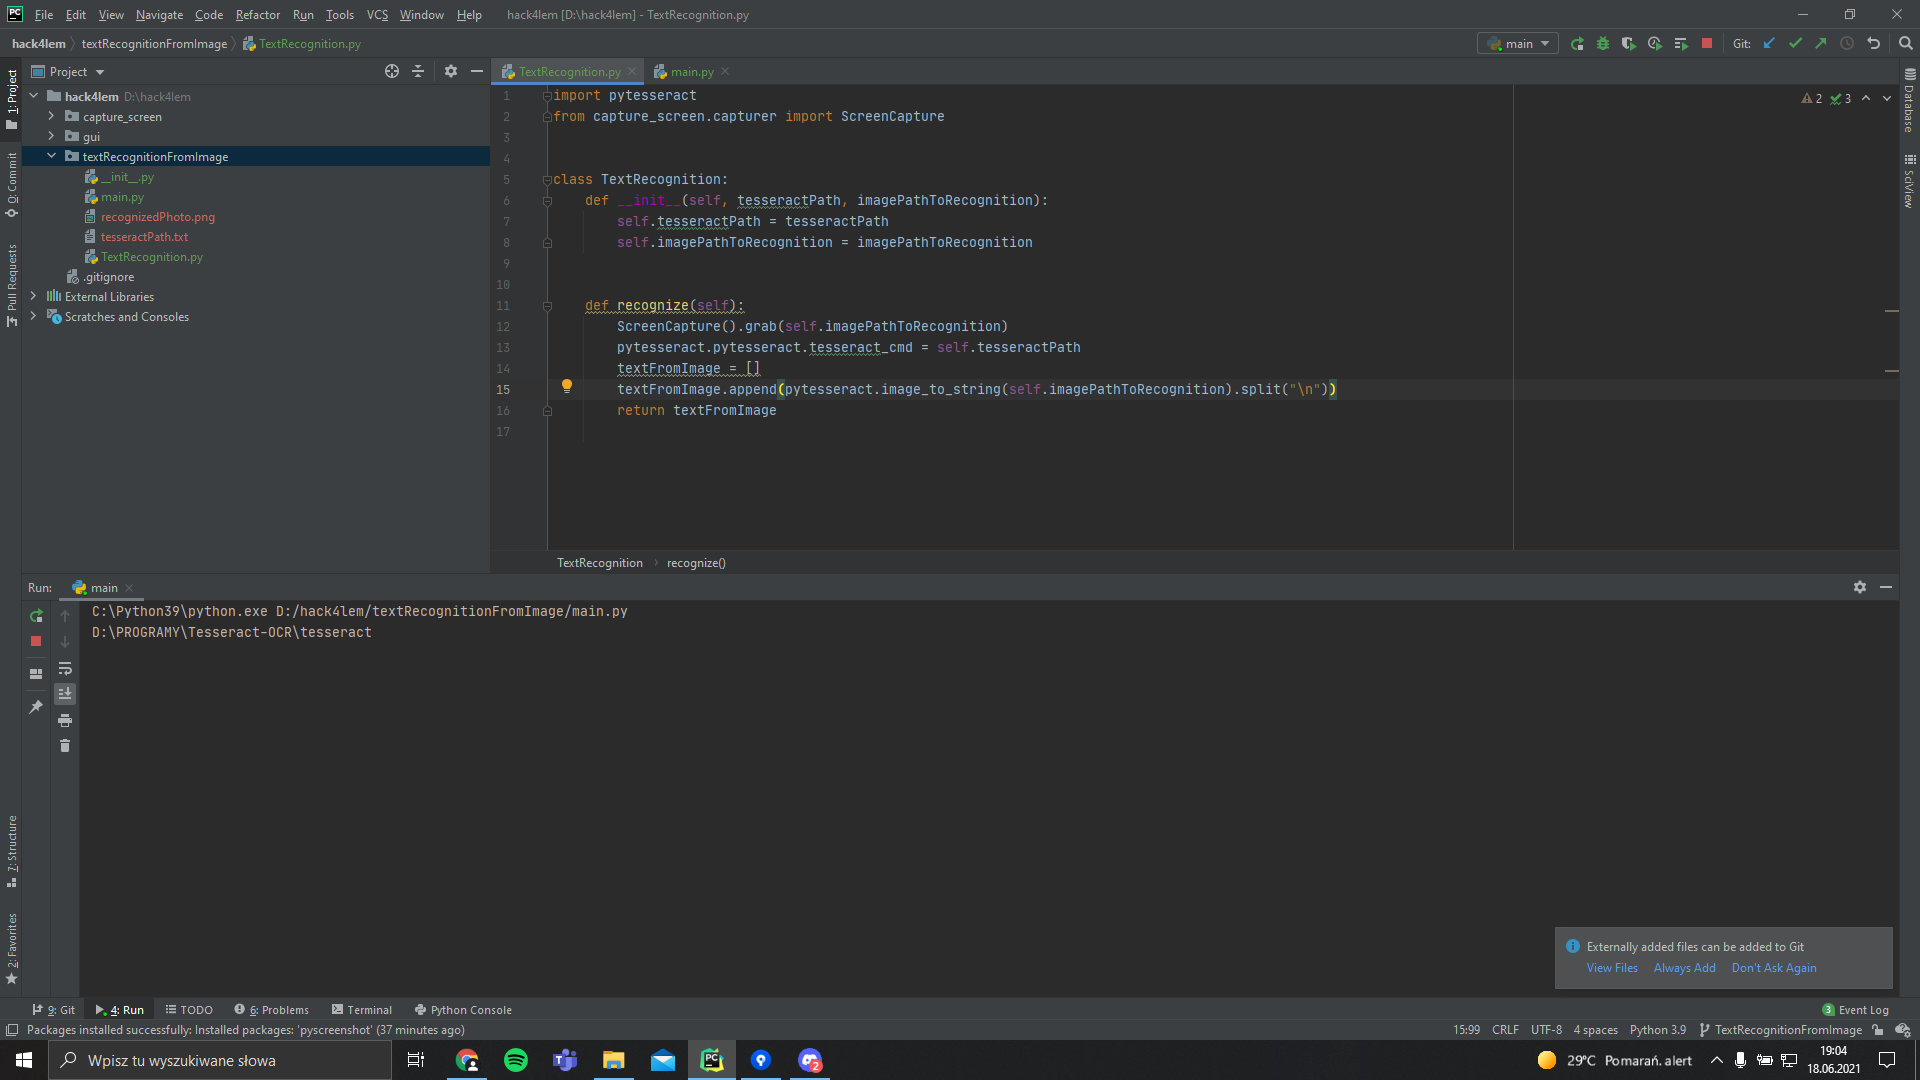
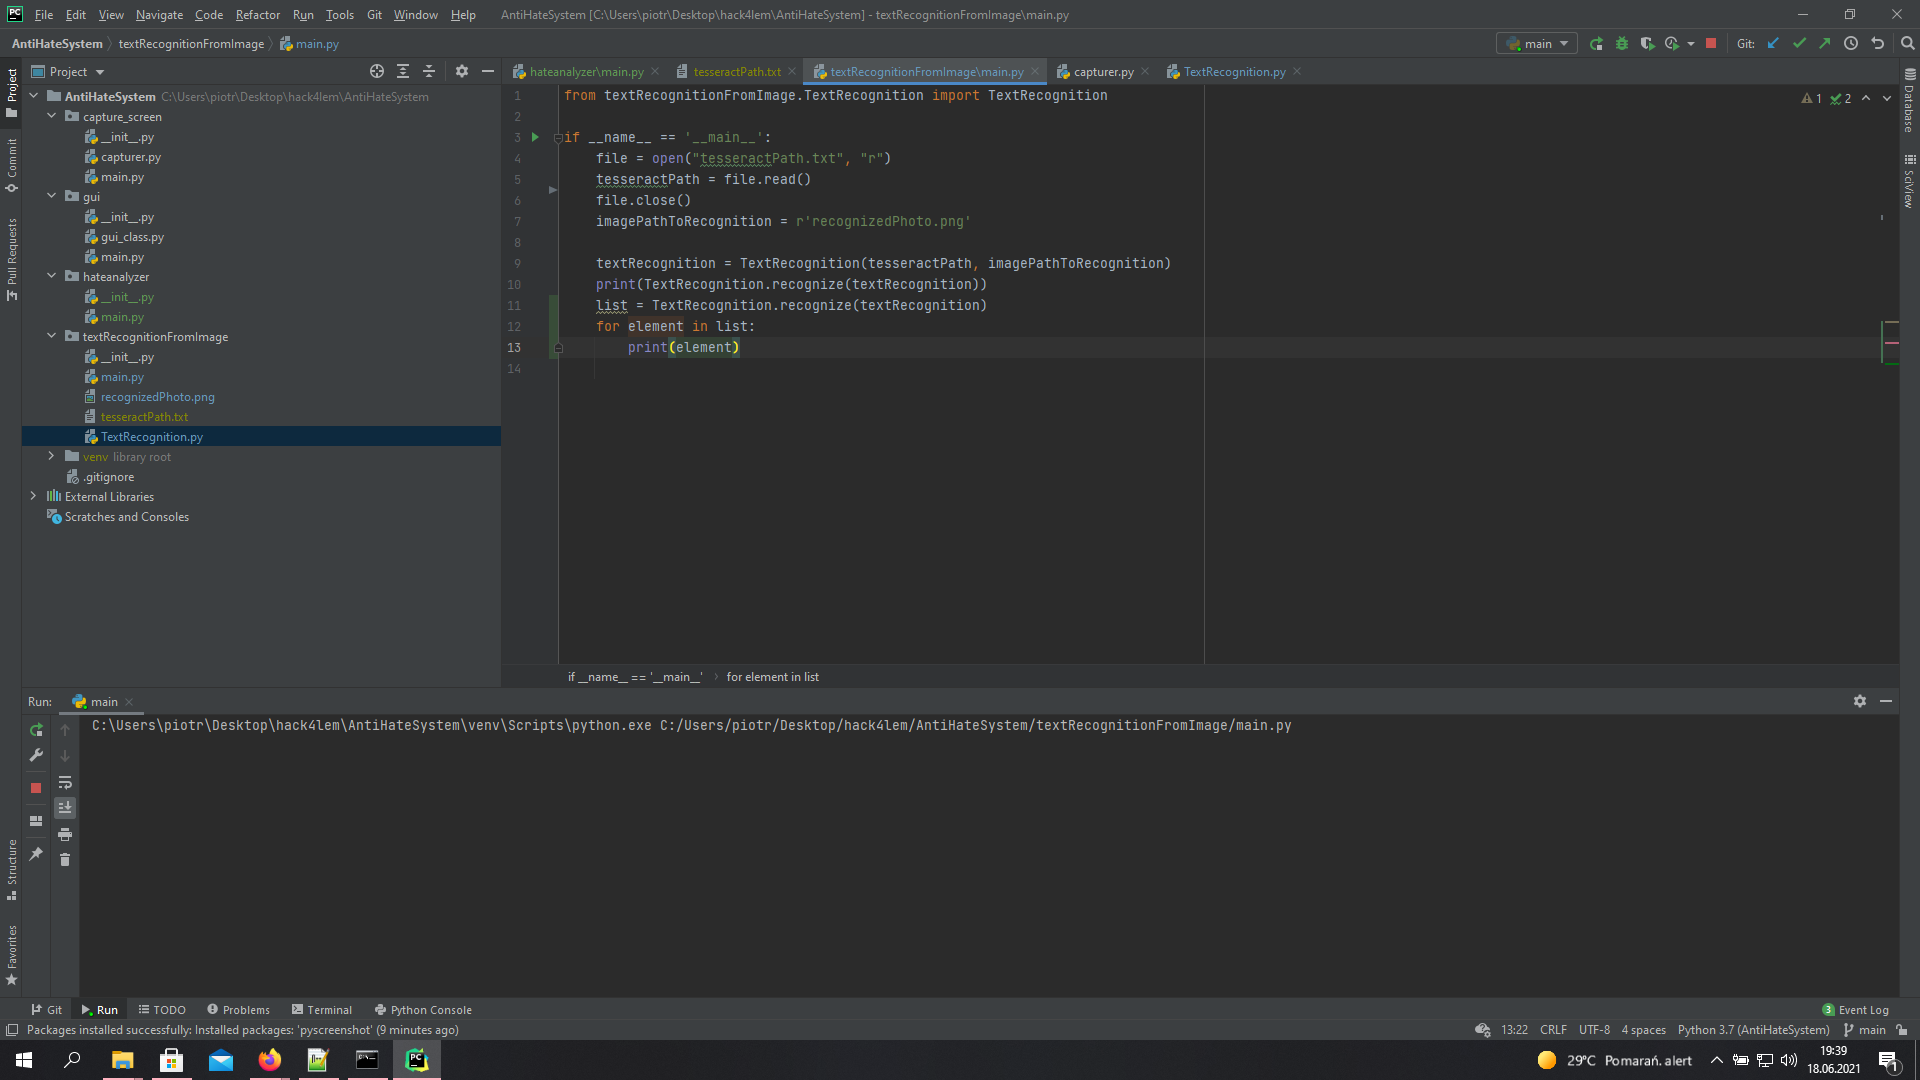
Some upgrades in text recognition

diff --git a/textRecognitionFromImage/main.py b/textRecognitionFromImage/main.py
@@ -3,9 +3,10 @@ from textRecognitionFromImage.TextRecognition import TextRecognition
 if __name__ == '__main__':
     file = open("tesseractPath.txt", "r")
     tesseractPath = file.read()
-    print(tesseractPath)
     file.close()
     imagePathToRecognition = r'recognizedPhoto.png'
 
     textRecognition = TextRecognition(tesseractPath, imagePathToRecognition)
-    print(TextRecognition.recognize(textRecognition))
+    list = TextRecognition.recognize(textRecognition)
+    for element in list:
+        print(element)

diff --git a/textRecognitionFromImage/TextRecognition.py b/textRecognitionFromImage/TextRecognition.py
@@ -11,6 +11,7 @@ class TextRecognition:
     def recognize(self):
         ScreenCapture().grab(self.imagePathToRecognition)
         pytesseract.pytesseract.tesseract_cmd = self.tesseractPath
-        textFromImage = []
-        textFromImage.append(pytesseract.image_to_string(self.imagePathToRecognition).split("\n"))
+
+        textFromImage = (pytesseract.image_to_string(self.imagePathToRecognition).split("\n"))
+
         return textFromImage

diff --git a/hateanalyzer/main.py b/hateanalyzer/main.py
@@ -1,0 +1,3 @@
+from hatesonar import Sonar
+sonar = Sonar()
+sonar.ping(text="At least I'm not a nigger")
